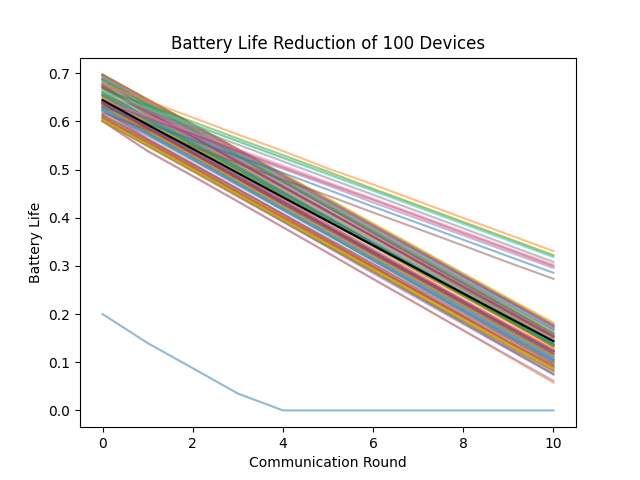
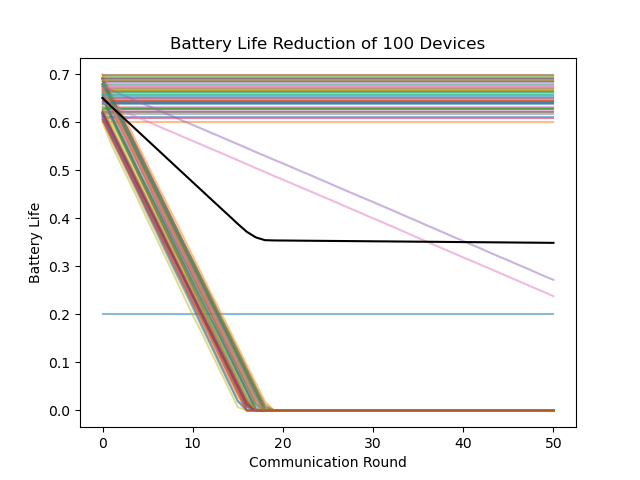
Added basic dropout

diff --git a/cloud.py b/cloud.py
@@ -26,8 +26,9 @@ from utils import (
 )
 from fl_utils import aggregate_cos, aggregate_avg
 import time
+import random
 
-preferred_device = "cpu"
+preferred_device = "cuda" if torch.cuda.is_available() else "cpu"
 """
 A bunch of global variables to keep track of new additions to the simulation
 """
@@ -203,7 +204,12 @@ class Cloud:
         self.cloud_cfg = cloud_cfg
         self.dev_cfg = dev_cfg
         self.seed = seed
+        self.dropout_rate = 0.1
         seed_everything(self.seed)
+
+    def apply_dropout(devices, dropout_rate):
+        num_to_drop = int(len(devices)*dropout_rate)
+        return random.sample(devices, len(devices)-num_to_drop)
 
     def federated_learning(self):
         total_time_start = time.time()
@@ -363,7 +369,7 @@ class Cloud:
                 mobility_data_filt = pickle.load(f)
             t = list(mobility_data_filt.keys())
             # myrange = range(len(t)), limit timesteps
-            myrange = range(10)
+            myrange = range(50)
 
         trained_until_now = []
         devices_last_seen = []
@@ -438,7 +444,7 @@ class Cloud:
                 available_devices = []
 
                 for d in mobility_data_filt[t[t_idx]]:
-                    if d["internet_speed"] >= 0:
+                    if d["internet_speed"] >= 0 and np.random.rand() > 0.5:
 
                         available_devices.append(d)
                 # Skipping communication round - aggregate if necessary

diff --git a/battery.py b/battery.py
@@ -82,7 +82,14 @@ def reduce_battery(phone, battery, training_time):
 def plot_battery_life(battery_life, num_rounds, num_devices, experiment_name):
     import matplotlib.pyplot as plt
 
-    battery = np.array(battery_life).reshape(num_devices, num_rounds + 1)
+    # Pad battery_life to ensure all devices have data for all rounds
+    max_rounds = num_rounds + 1
+    padded_battery = [
+        device_battery + [device_battery[-1]] * (max_rounds - len(device_battery))
+        for device_battery in battery_life
+    ]
+
+    battery = np.array(padded_battery).reshape(num_devices, max_rounds)
     plt.plot(battery.T, alpha=0.5)
     plt.plot(battery.mean(axis=0), color="black")
     plt.xlabel("Communication Round")

diff --git a/utils.py b/utils.py
@@ -292,7 +292,7 @@ def get_hw_info(hw_type):
     elif hw_type == "mc1":
         return "password", "odroid", "/home/odroid/MOHAWK/files/"
     elif hw_type == "local":
-        return "pwd", "usr", "C://Users/nickg/Workspace/RWML/ad-hoc-fl/files/"
+        return "pwd", "usr", "C://Users/Has02/Documents/mlrwn/MOHAWK/files/"
     else:
         print("[!] ERROR wrong device type.")
 
